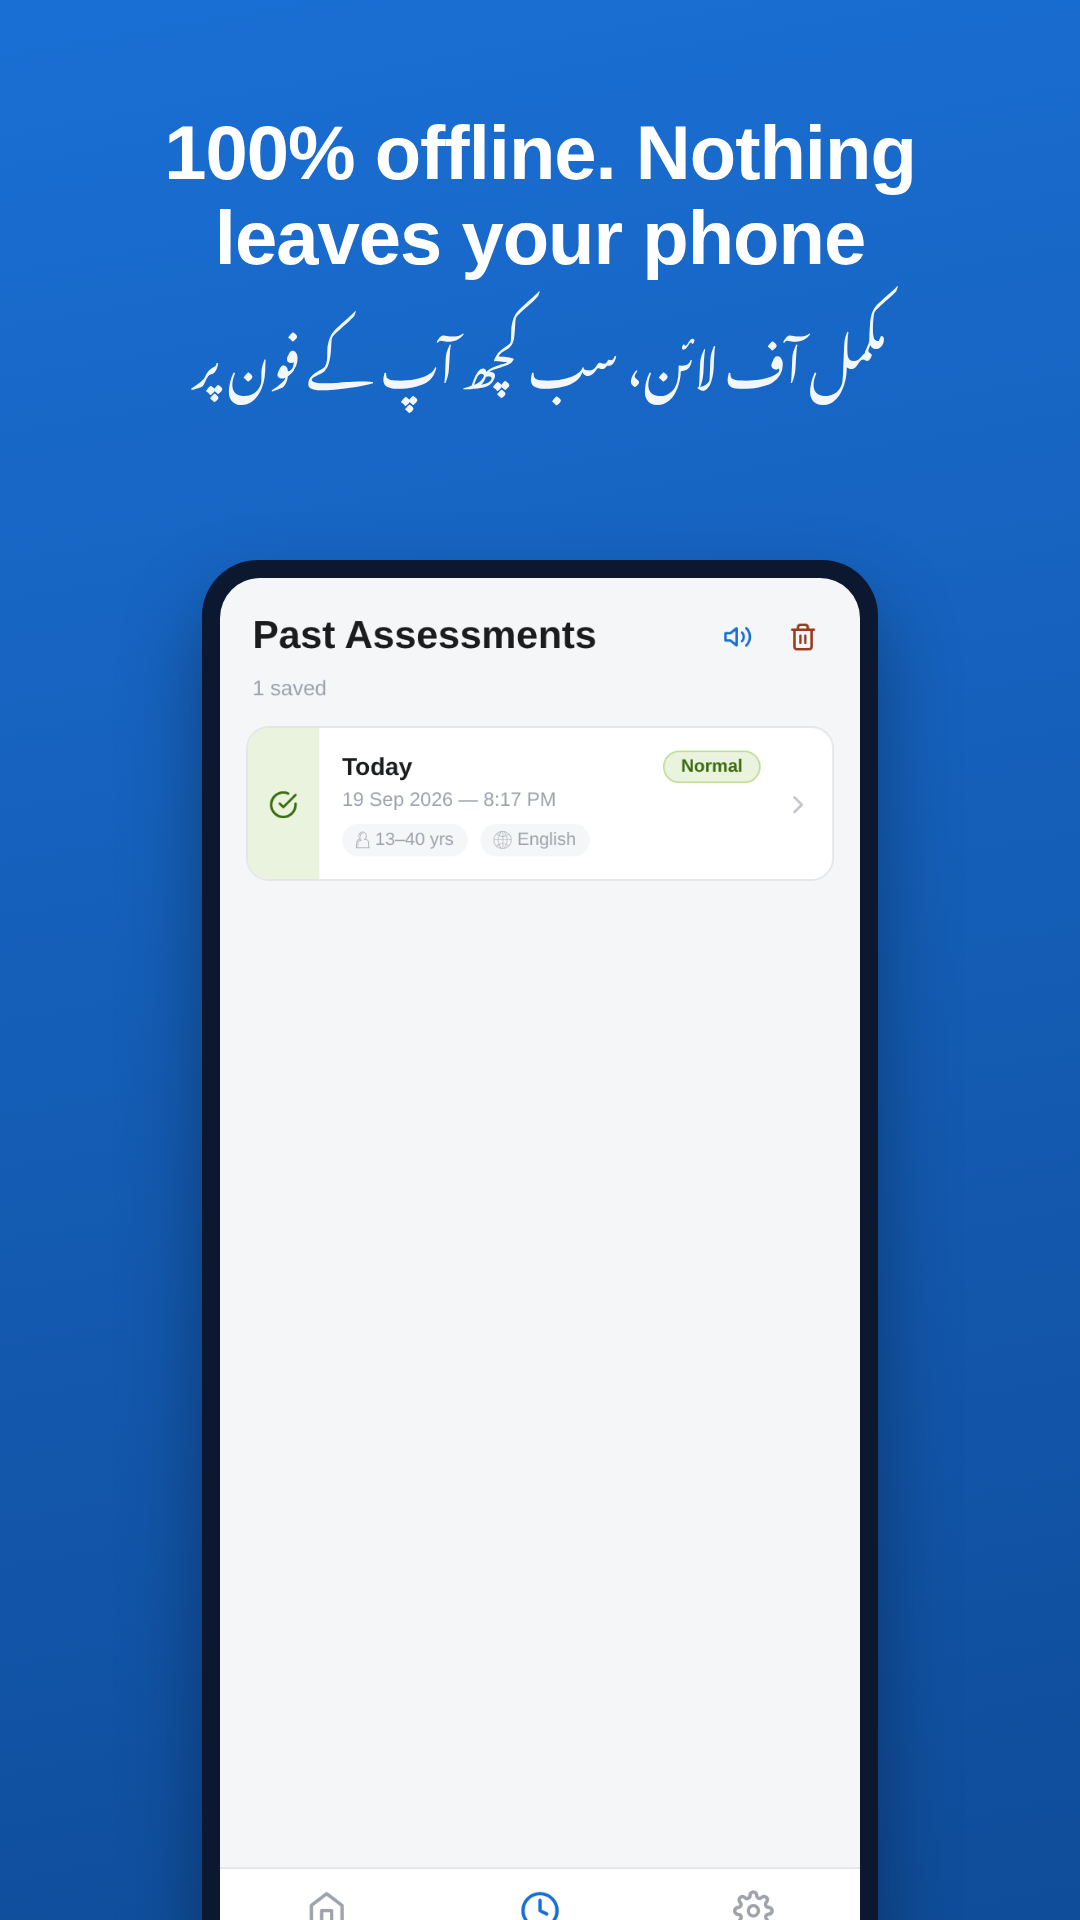
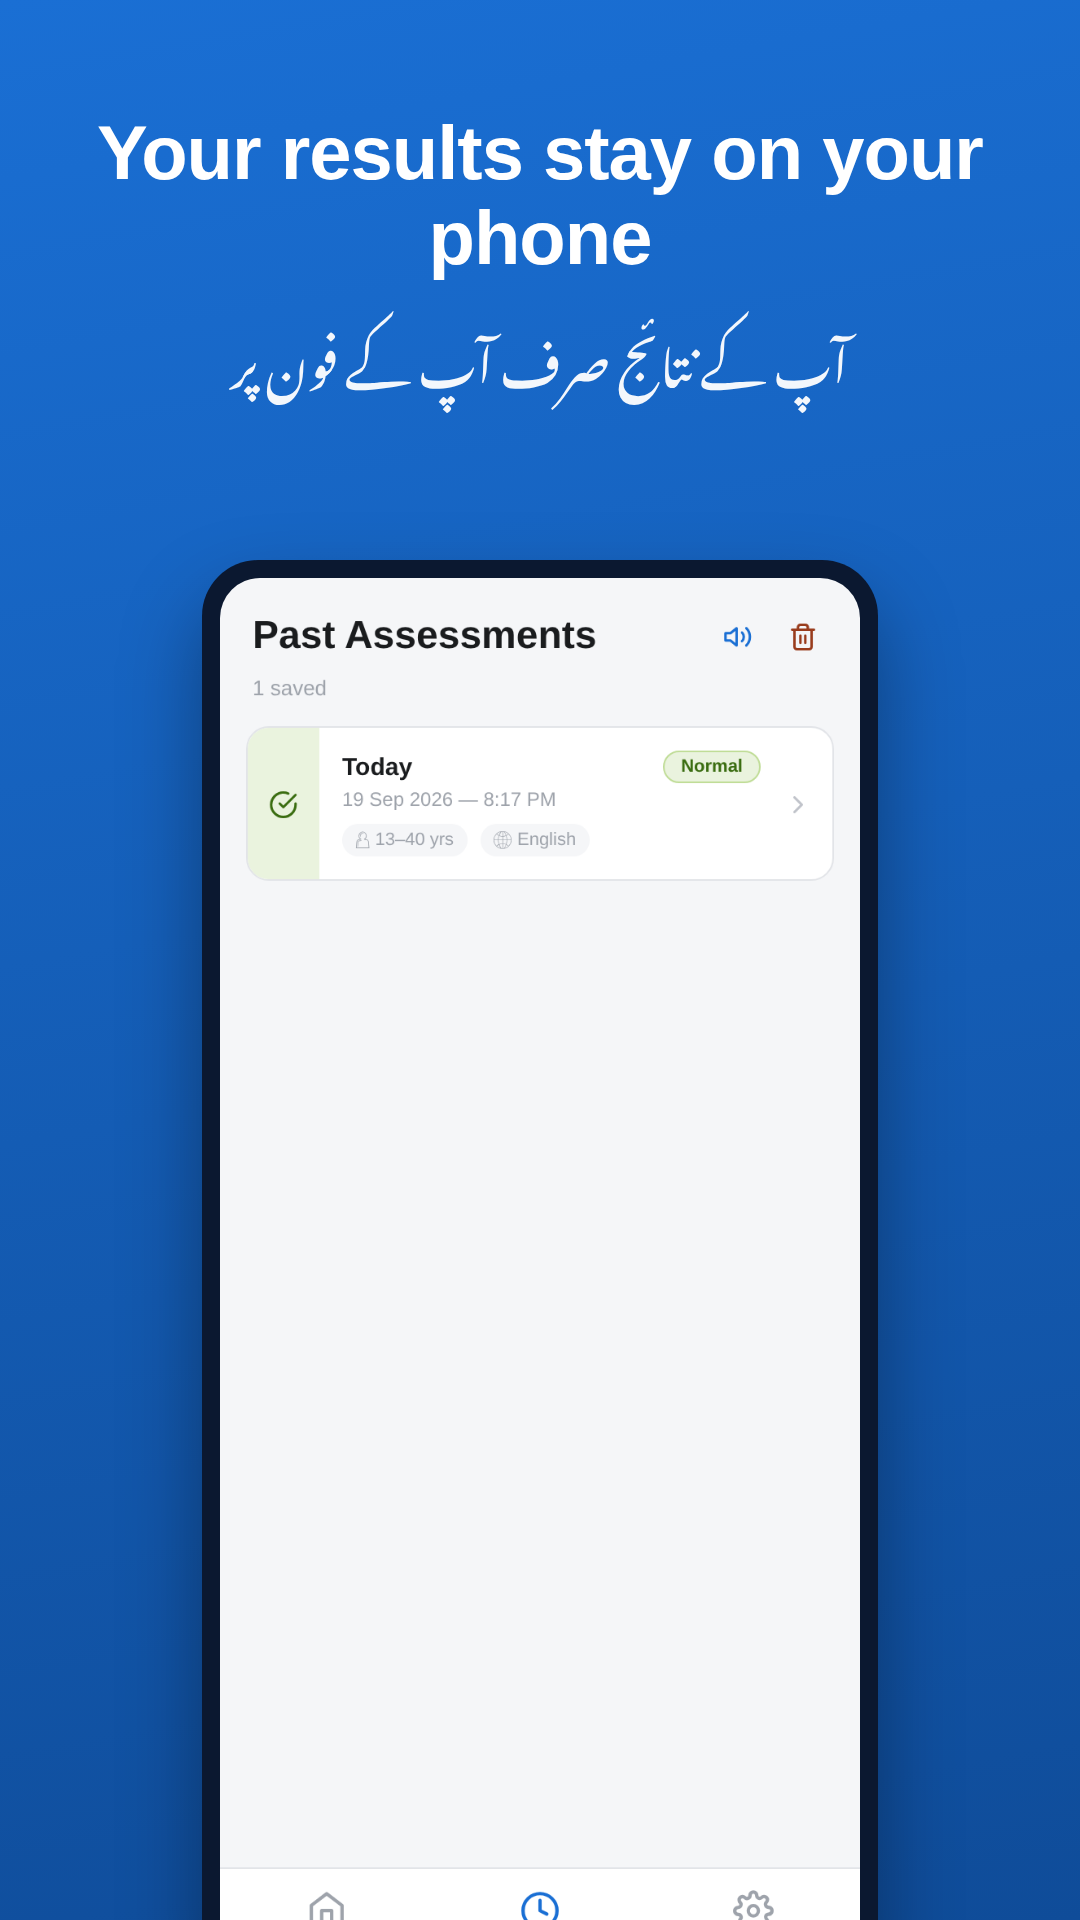
Store listing v1.1: refresh two screenshot captions, drop 'no analytics' wording
Captions: '7 standard eye tests' and 'Your results stay on your phone' (ads now ship).
index.html no longer claims 'no analytics' next to the ads bullet, to match the Data safety form.

Changed region(s): [[0.0917, 0.0625, 0.9167, 0.2188]]

diff --git a/docs/index.html b/docs/index.html
@@ -172,7 +172,7 @@
       <div class="point"><div class="dot"></div><div><strong>No account, no login</strong><span>Open the app and start — nothing to sign up for.</span></div></div>
       <div class="point"><div class="dot"></div><div><strong>Your results stay on your phone</strong><span>Test answers and history are never uploaded. The only network use is loading ads, and every test works fully offline.</span></div></div>
       <div class="point"><div class="dot"></div><div><strong>You control your history</strong><span>Clear it any time from Settings, or uninstall to remove everything.</span></div></div>
-      <div class="point"><div class="dot"></div><div><strong>Light, privacy-minded ads</strong><span>Banner ads appear only on the Home and History screens, never during a test or result. Non-personalised, and no analytics.</span></div></div>
+      <div class="point"><div class="dot"></div><div><strong>Light, privacy-minded ads</strong><span>Banner ads appear only on the Home and History screens, never during a test or result. Non-personalised, and your test results are never shared with the ad network.</span></div></div>
     </div>
   </div>
 </section>

diff --git a/docs/play-store/captioned/_src/02_05_symptom_selector.html b/docs/play-store/captioned/_src/02_05_symptom_selector.html
@@ -1,0 +1,11 @@
+<!doctype html><html><head><meta charset="utf-8"><style>
+@font-face{font-family:Nast;src:url('file:///mnt/storage/projects/visioncheck/docs/fonts/NotoNastaliqUrdu.ttf')}
+html,body{margin:0;width:1080px;height:1920px;overflow:hidden}
+body{background:linear-gradient(170deg,#1A6FD4 0%,#0F4C99 100%);font-family:'Inter','Segoe UI',Roboto,Arial,sans-serif;color:#fff;text-align:center}
+.cap{padding:110px 70px 0}
+.en{font-size:76px;font-weight:800;line-height:1.12;letter-spacing:-1px}
+.ur{font-family:Nast;font-size:50px;line-height:2;margin-top:26px;opacity:.95;direction:rtl}
+.phone{position:absolute;left:50%;transform:translateX(-50%);top:560px;width:640px;border-radius:56px;background:#0b1830;padding:18px;box-shadow:0 40px 80px rgba(0,0,0,.35)}
+.phone img{display:block;width:100%;border-radius:40px}
+</style></head><body><div class="cap"><div class="en">Tell us what you notice — we pick the tests</div><div class="ur">بتائیں کیا محسوس ہو رہا ہے</div></div>
+<div class="phone"><img src="file:///mnt/storage/projects/visioncheck/docs/play-store/screenshots/05_symptom_selector.png"></div></body></html>

diff --git a/docs/play-store/captioned/_src/04_09_final_summary.html b/docs/play-store/captioned/_src/04_09_final_summary.html
@@ -1,0 +1,11 @@
+<!doctype html><html><head><meta charset="utf-8"><style>
+@font-face{font-family:Nast;src:url('file:///mnt/storage/projects/visioncheck/docs/fonts/NotoNastaliqUrdu.ttf')}
+html,body{margin:0;width:1080px;height:1920px;overflow:hidden}
+body{background:linear-gradient(170deg,#1A6FD4 0%,#0F4C99 100%);font-family:'Inter','Segoe UI',Roboto,Arial,sans-serif;color:#fff;text-align:center}
+.cap{padding:110px 70px 0}
+.en{font-size:76px;font-weight:800;line-height:1.12;letter-spacing:-1px}
+.ur{font-family:Nast;font-size:50px;line-height:2;margin-top:26px;opacity:.95;direction:rtl}
+.phone{position:absolute;left:50%;transform:translateX(-50%);top:560px;width:640px;border-radius:56px;background:#0b1830;padding:18px;box-shadow:0 40px 80px rgba(0,0,0,.35)}
+.phone img{display:block;width:100%;border-radius:40px}
+</style></head><body><div class="cap"><div class="en">Clear result: when to see a doctor</div><div class="ur">واضح نتیجہ: ڈاکٹر کب دکھانا ہے</div></div>
+<div class="phone"><img src="file:///mnt/storage/projects/visioncheck/docs/play-store/screenshots/09_final_summary.png"></div></body></html>

diff --git a/docs/play-store/captioned/_src/06_10_history.html b/docs/play-store/captioned/_src/06_10_history.html
@@ -1,0 +1,11 @@
+<!doctype html><html><head><meta charset="utf-8"><style>
+@font-face{font-family:Nast;src:url('file:///mnt/storage/projects/visioncheck/docs/fonts/NotoNastaliqUrdu.ttf')}
+html,body{margin:0;width:1080px;height:1920px;overflow:hidden}
+body{background:linear-gradient(170deg,#1A6FD4 0%,#0F4C99 100%);font-family:'Inter','Segoe UI',Roboto,Arial,sans-serif;color:#fff;text-align:center}
+.cap{padding:110px 70px 0}
+.en{font-size:76px;font-weight:800;line-height:1.12;letter-spacing:-1px}
+.ur{font-family:Nast;font-size:50px;line-height:2;margin-top:26px;opacity:.95;direction:rtl}
+.phone{position:absolute;left:50%;transform:translateX(-50%);top:560px;width:640px;border-radius:56px;background:#0b1830;padding:18px;box-shadow:0 40px 80px rgba(0,0,0,.35)}
+.phone img{display:block;width:100%;border-radius:40px}
+</style></head><body><div class="cap"><div class="en">Your results stay on your phone</div><div class="ur">آپ کے نتائج صرف آپ کے فون پر</div></div>
+<div class="phone"><img src="file:///mnt/storage/projects/visioncheck/docs/play-store/screenshots/10_history.png"></div></body></html>

diff --git a/docs/play-store/captioned/_src/05_13_home_urdu.html b/docs/play-store/captioned/_src/05_13_home_urdu.html
@@ -1,0 +1,11 @@
+<!doctype html><html><head><meta charset="utf-8"><style>
+@font-face{font-family:Nast;src:url('file:///mnt/storage/projects/visioncheck/docs/fonts/NotoNastaliqUrdu.ttf')}
+html,body{margin:0;width:1080px;height:1920px;overflow:hidden}
+body{background:linear-gradient(170deg,#1A6FD4 0%,#0F4C99 100%);font-family:'Inter','Segoe UI',Roboto,Arial,sans-serif;color:#fff;text-align:center}
+.cap{padding:110px 70px 0}
+.en{font-size:76px;font-weight:800;line-height:1.12;letter-spacing:-1px}
+.ur{font-family:Nast;font-size:50px;line-height:2;margin-top:26px;opacity:.95;direction:rtl}
+.phone{position:absolute;left:50%;transform:translateX(-50%);top:560px;width:640px;border-radius:56px;background:#0b1830;padding:18px;box-shadow:0 40px 80px rgba(0,0,0,.35)}
+.phone img{display:block;width:100%;border-radius:40px}
+</style></head><body><div class="cap"><div class="en">Full Urdu, with spoken guidance</div><div class="ur">مکمل اردو، آواز کے ساتھ</div></div>
+<div class="phone"><img src="file:///mnt/storage/projects/visioncheck/docs/play-store/screenshots/13_home_urdu.png"></div></body></html>

diff --git a/docs/play-store/captioned/_src/01_03_home.html b/docs/play-store/captioned/_src/01_03_home.html
@@ -1,0 +1,11 @@
+<!doctype html><html><head><meta charset="utf-8"><style>
+@font-face{font-family:Nast;src:url('file:///mnt/storage/projects/visioncheck/docs/fonts/NotoNastaliqUrdu.ttf')}
+html,body{margin:0;width:1080px;height:1920px;overflow:hidden}
+body{background:linear-gradient(170deg,#1A6FD4 0%,#0F4C99 100%);font-family:'Inter','Segoe UI',Roboto,Arial,sans-serif;color:#fff;text-align:center}
+.cap{padding:110px 70px 0}
+.en{font-size:76px;font-weight:800;line-height:1.12;letter-spacing:-1px}
+.ur{font-family:Nast;font-size:50px;line-height:2;margin-top:26px;opacity:.95;direction:rtl}
+.phone{position:absolute;left:50%;transform:translateX(-50%);top:480px;width:640px;border-radius:56px;background:#0b1830;padding:18px;box-shadow:0 40px 80px rgba(0,0,0,.35)}
+.phone img{display:block;width:100%;border-radius:40px}
+</style></head><body><div class="cap"><div class="en">Check your eyesight at home</div><div class="ur">گھر بیٹھے نظر چیک کریں</div></div>
+<div class="phone"><img src="file:///mnt/storage/projects/visioncheck/docs/play-store/screenshots/03_home.png"></div></body></html>

diff --git a/docs/play-store/captioned/_src/03_08_test_color.html b/docs/play-store/captioned/_src/03_08_test_color.html
@@ -1,0 +1,11 @@
+<!doctype html><html><head><meta charset="utf-8"><style>
+@font-face{font-family:Nast;src:url('file:///mnt/storage/projects/visioncheck/docs/fonts/NotoNastaliqUrdu.ttf')}
+html,body{margin:0;width:1080px;height:1920px;overflow:hidden}
+body{background:linear-gradient(170deg,#1A6FD4 0%,#0F4C99 100%);font-family:'Inter','Segoe UI',Roboto,Arial,sans-serif;color:#fff;text-align:center}
+.cap{padding:110px 70px 0}
+.en{font-size:76px;font-weight:800;line-height:1.12;letter-spacing:-1px}
+.ur{font-family:Nast;font-size:50px;line-height:2;margin-top:26px;opacity:.95;direction:rtl}
+.phone{position:absolute;left:50%;transform:translateX(-50%);top:480px;width:640px;border-radius:56px;background:#0b1830;padding:18px;box-shadow:0 40px 80px rgba(0,0,0,.35)}
+.phone img{display:block;width:100%;border-radius:40px}
+</style></head><body><div class="cap"><div class="en">7 standard eye tests</div><div class="ur">آنکھوں کے 7 معیاری ٹیسٹ</div></div>
+<div class="phone"><img src="file:///mnt/storage/projects/visioncheck/docs/play-store/screenshots/08_test_color.png"></div></body></html>

diff --git a/docs/play-store/captioned/_src/build.py b/docs/play-store/captioned/_src/build.py
@@ -7,10 +7,10 @@ OUT = HERE.parent
 ITEMS = [
  ("03_home", "Check your eyesight at home", "گھر بیٹھے نظر چیک کریں"),
  ("05_symptom_selector", "Tell us what you notice — we pick the tests", "بتائیں کیا محسوس ہو رہا ہے"),
- ("08_test_color", "6 standard eye tests", "آنکھوں کے 6 معیاری ٹیسٹ"),
+ ("08_test_color", "7 standard eye tests", "آنکھوں کے 7 معیاری ٹیسٹ"),
  ("09_final_summary", "Clear result: when to see a doctor", "واضح نتیجہ: ڈاکٹر کب دکھانا ہے"),
  ("13_home_urdu", "Full Urdu, with spoken guidance", "مکمل اردو، آواز کے ساتھ"),
- ("10_history", "100% offline. Nothing leaves your phone", "مکمل آف لائن، سب کچھ آپ کے فون پر"),
+ ("10_history", "Your results stay on your phone", "آپ کے نتائج صرف آپ کے فون پر"),
 ]
 TPL = """<!doctype html><html><head><meta charset="utf-8"><style>
 @font-face{{font-family:Nast;src:url('{font}')}}
